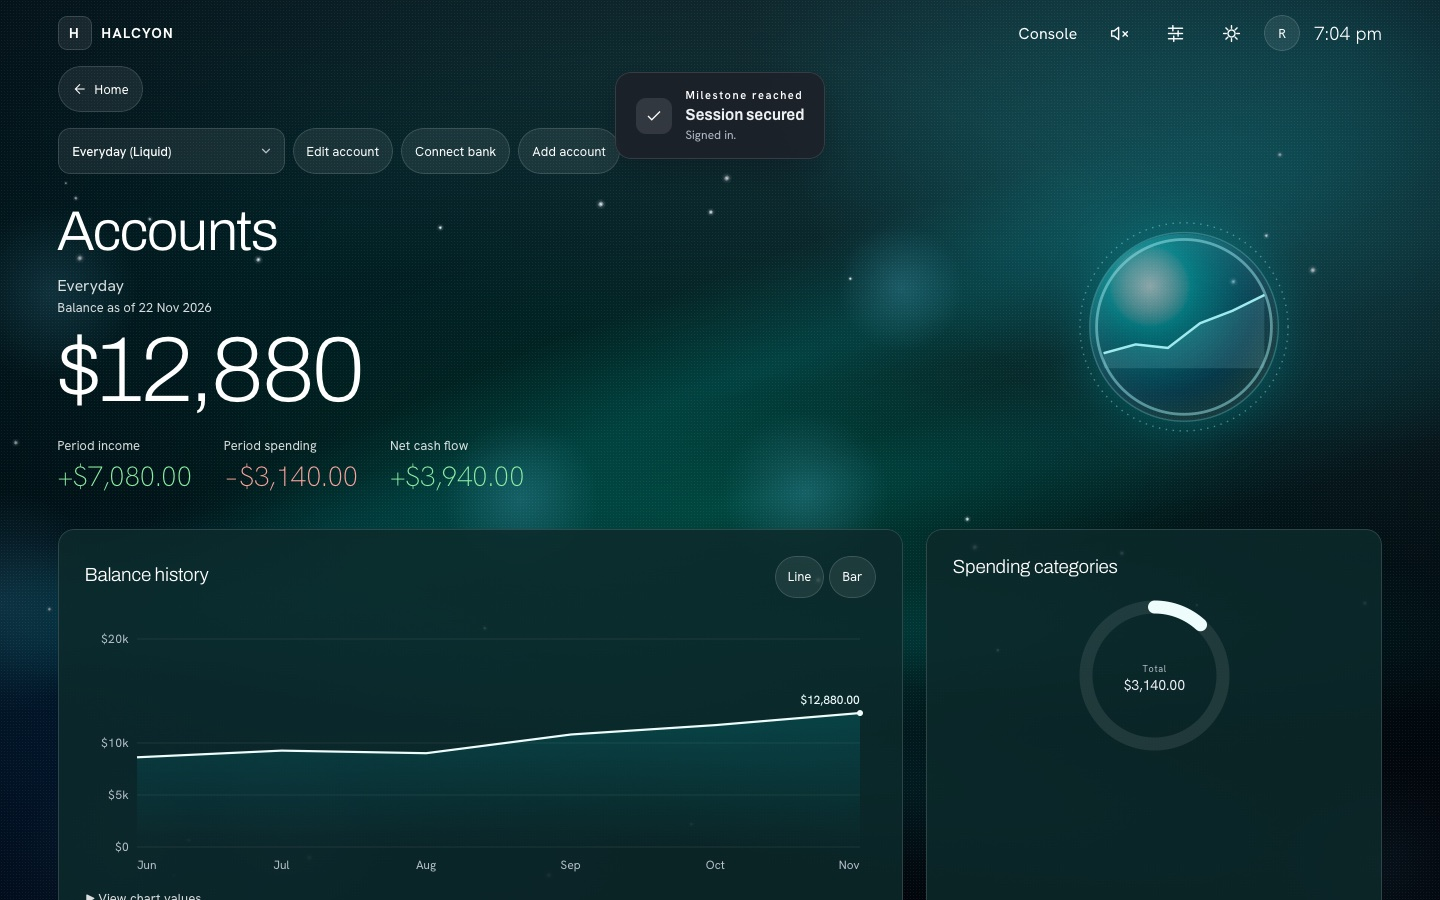
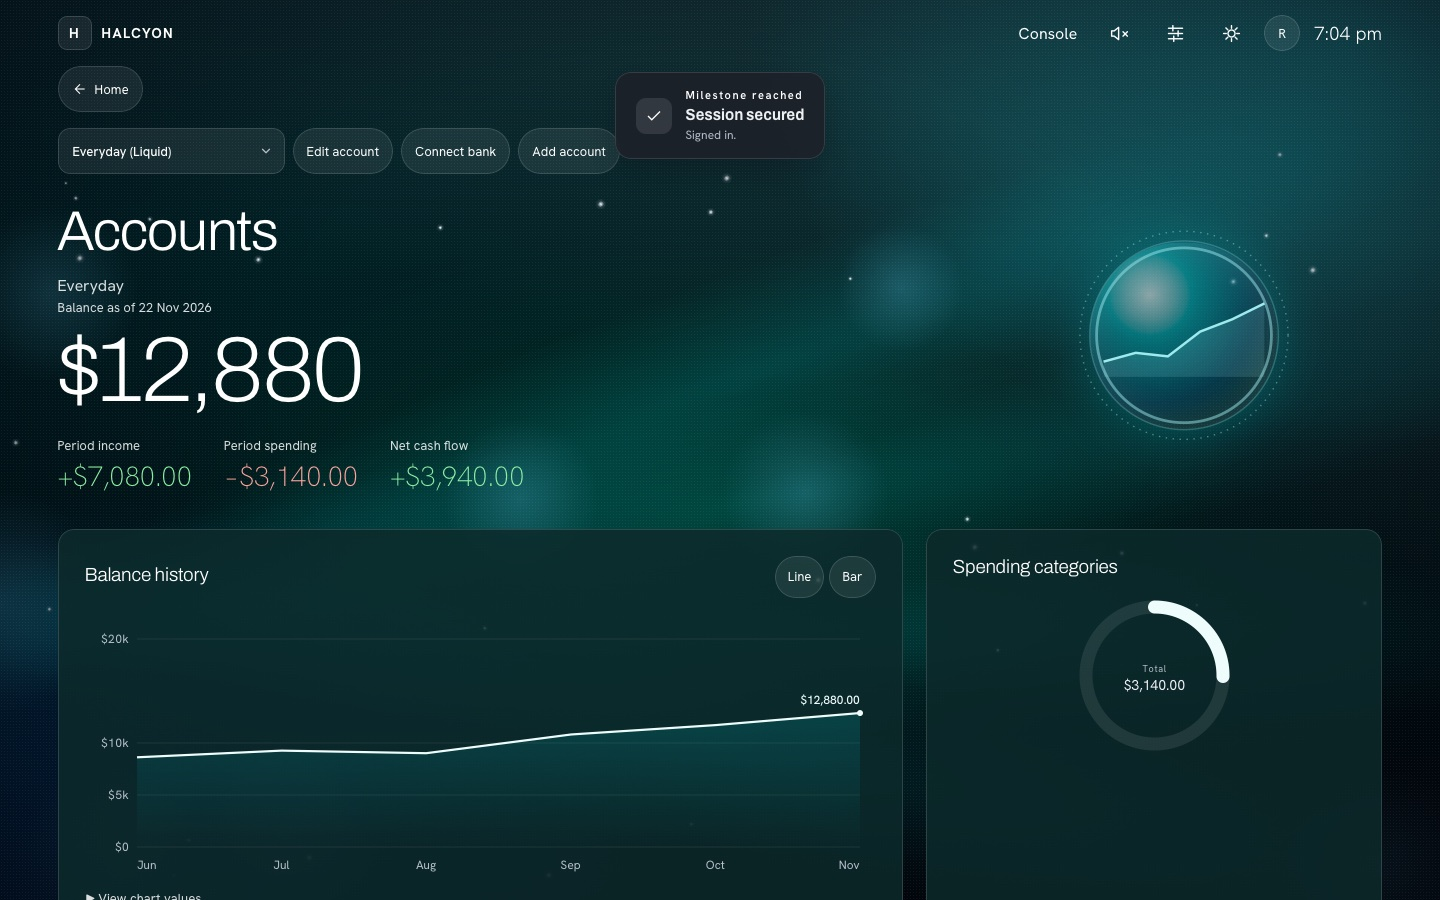
Wait for the hero to settle before sampling particle pixels

Changed region(s): [[0.75, 0.2489, 0.9062, 0.4978], [0.8438, 0.7156, 0.875, 0.7778], [0.8125, 0.6844, 0.8438, 0.7156]]

diff --git a/app/e2e/console-owner-fixes.spec.ts b/app/e2e/console-owner-fixes.spec.ts
@@ -615,6 +615,12 @@ test('Full effects masks particles behind each visible hero and signed figure', 
     const particles = page.locator('.console-particles')
     await expect(particles).toHaveAttribute('data-particle-count', '55')
     const label = route === '/dashboard' ? 'home' : 'accounts'
+    const hero = page.locator(route === '/dashboard' ? '.console-home .console-preview' : '.console-expanded-hero')
+    await expect(hero).toHaveCSS('opacity', '1')
+    await expect.poll(() => hero.evaluate(node => [node, ...node.querySelectorAll('.console-handoff')].every(part => {
+      const transform = getComputedStyle(part).transform
+      return transform === 'none' || new DOMMatrix(transform).isIdentity
+    }))).toBe(true)
     await expect(page.locator('.console-hero-amount:visible')).toContainText('$')
     await capture(page, `12-particles-${label}`)
     await expect.soft(page.locator('.console-particle-mask')).not.toHaveCSS('mask-image', 'none', { timeout: 1500 })
@@ -643,7 +649,6 @@ test('Full effects masks particles behind each visible hero and signed figure', 
     // The same sprite must paint in open space and disappear beneath a figure.
     const figure = route === '/dashboard' ? page.locator('.console-hero-amount:visible')
       : page.locator('.console-figures [data-sign]').first()
-    const box = (await figure.boundingBox())!
     const layer = page.locator('.console-particle-mask')
     const spriteDelta = async (x: number, y: number) => {
       const clip = { x, y, width: 8, height: 8 }
@@ -672,6 +677,8 @@ test('Full effects masks particles behind each visible hero and signed figure', 
       }, [plain.toString('base64'), trial.toString('base64')])
     }
     expect(await spriteDelta(12, 12)).toBeGreaterThan(25)
+    // Sample the protected point after the open-space control has painted.
+    const box = (await figure.boundingBox())!
     expect(await spriteDelta(Math.floor(box.x + box.width / 2) - 4, Math.floor(box.y + box.height / 2) - 4)).toBeLessThan(3)
     if (route === '/accounts') {
       await page.getByRole('combobox', { name: 'Select account' }).selectOption({ label: 'Investments (Invest)' })

diff --git a/docs/design/console-phase-5-owner-fixes.md b/docs/design/console-phase-5-owner-fixes.md
@@ -54,3 +54,5 @@ The initial four-shard qualification took 13m 03s on shard 2. The workflow now u
 | Investment orb | Two or more monthly observations render value and cumulative contributions on one scale. A solid line marks value and a dashed line marks contributions. With insufficient history, the current value is centred in the ring. The regression measures at least 12% clearance on desktop and phone and checks empty holdings guidance for zero. | [Trend](captures/console-phase-5-owner-fixes/after/09-investment-hero.jpg) · [Fallback](captures/console-phase-5-owner-fixes/after/09-investment-fallback.jpg) |
 | Expense transaction count | The fictional PostgREST reply returned rows without the `Content-Range` total requested by the client. It now counts filtered rows before applying the limit. The test verifies six unfiltered rows, two merchant matches, and a zero-row empty state against the displayed counts. | [Six rows](captures/console-phase-5-owner-fixes/after/13-expense-transactions.jpg) · [Empty](captures/console-phase-5-owner-fixes/after/13-expense-empty.jpg) |
 | Layout polish | Master volume clears its focus ring by 8 px. Filter chips reserve their height plus both horizontal padding values as minimum width. A 20 px fade starts at the sticky dock edge, and the four-hub collapse test continues to check for visible text overlap. | [Volume focus](captures/console-phase-5-owner-fixes/after/08-volume-focus.jpg) · [Chips](captures/console-phase-5-owner-fixes/after/05-recurring-chips.jpg) · [Dock fade](captures/console-phase-5-owner-fixes/after/02-expanded-dock.jpg) |
+
+The hosted WebKit particle probe now waits for Home and the expanded Accounts hero to settle before comparing frames. The first run sampled moving white type. Its trace showed that the magenta probe was already hidden at the protected point.
